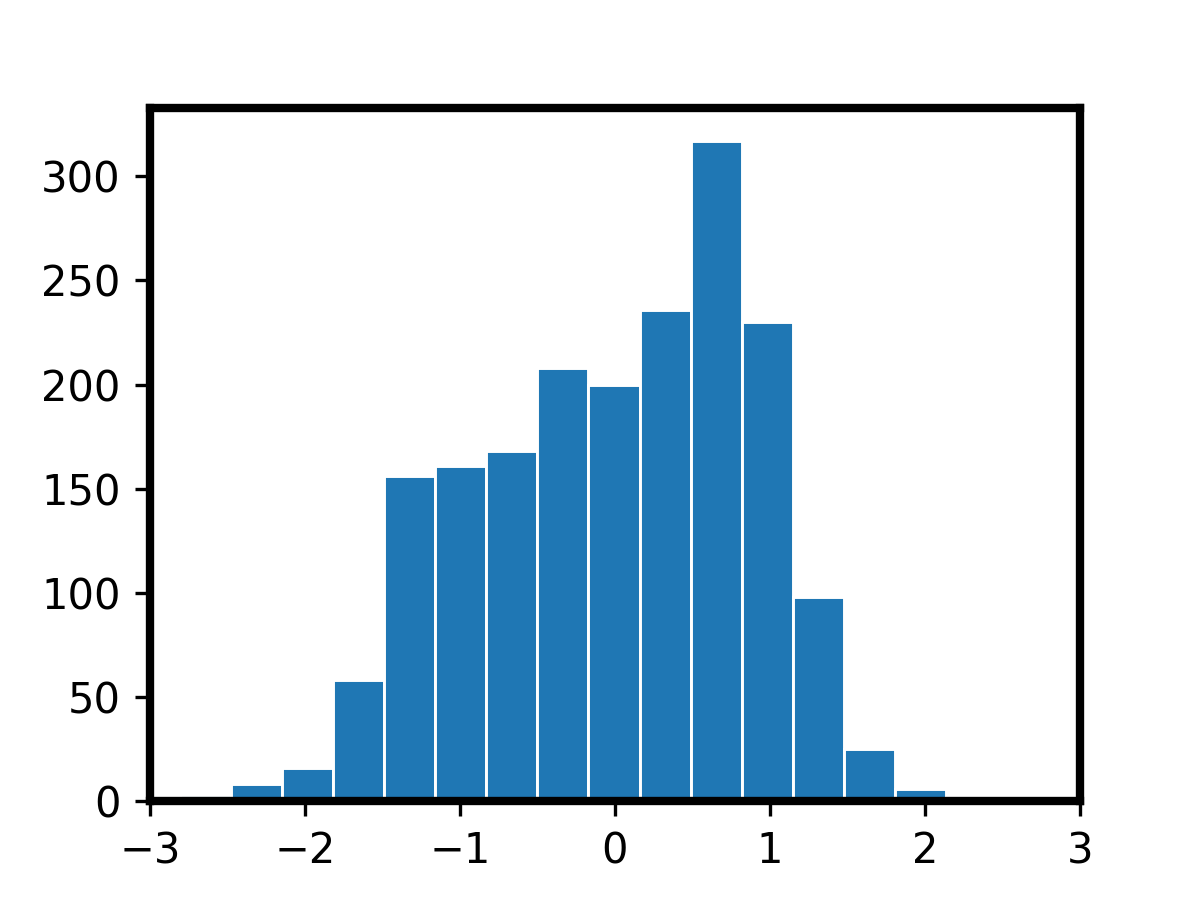
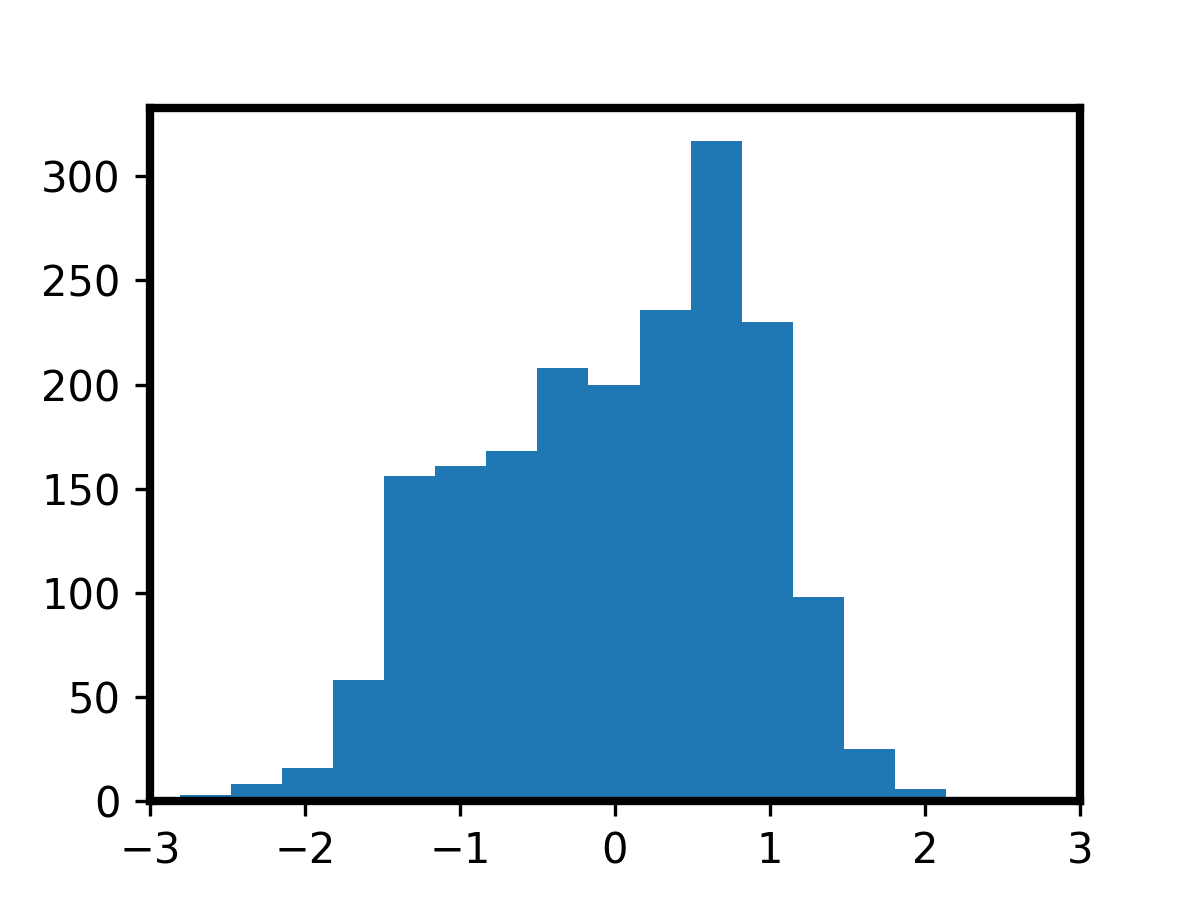
final plot

diff --git a/postprocess/load_results.py b/postprocess/load_results.py
@@ -99,8 +99,8 @@ def create_histogram(base_model, level, group, norm_values, line, figsize=(4, 3)
         norm_values,
         bins=bins,
         range=x_range or (min(norm_values), max(norm_values)),
-        edgecolor='white',  # Add white lines between bins
-        linewidth=0.7       # Thickness of the edges
+        # edgecolor='white',  # Add white lines between bins
+        # linewidth=0.7       # Thickness of the edges
     )
 
     # Optionally set x-axis range
